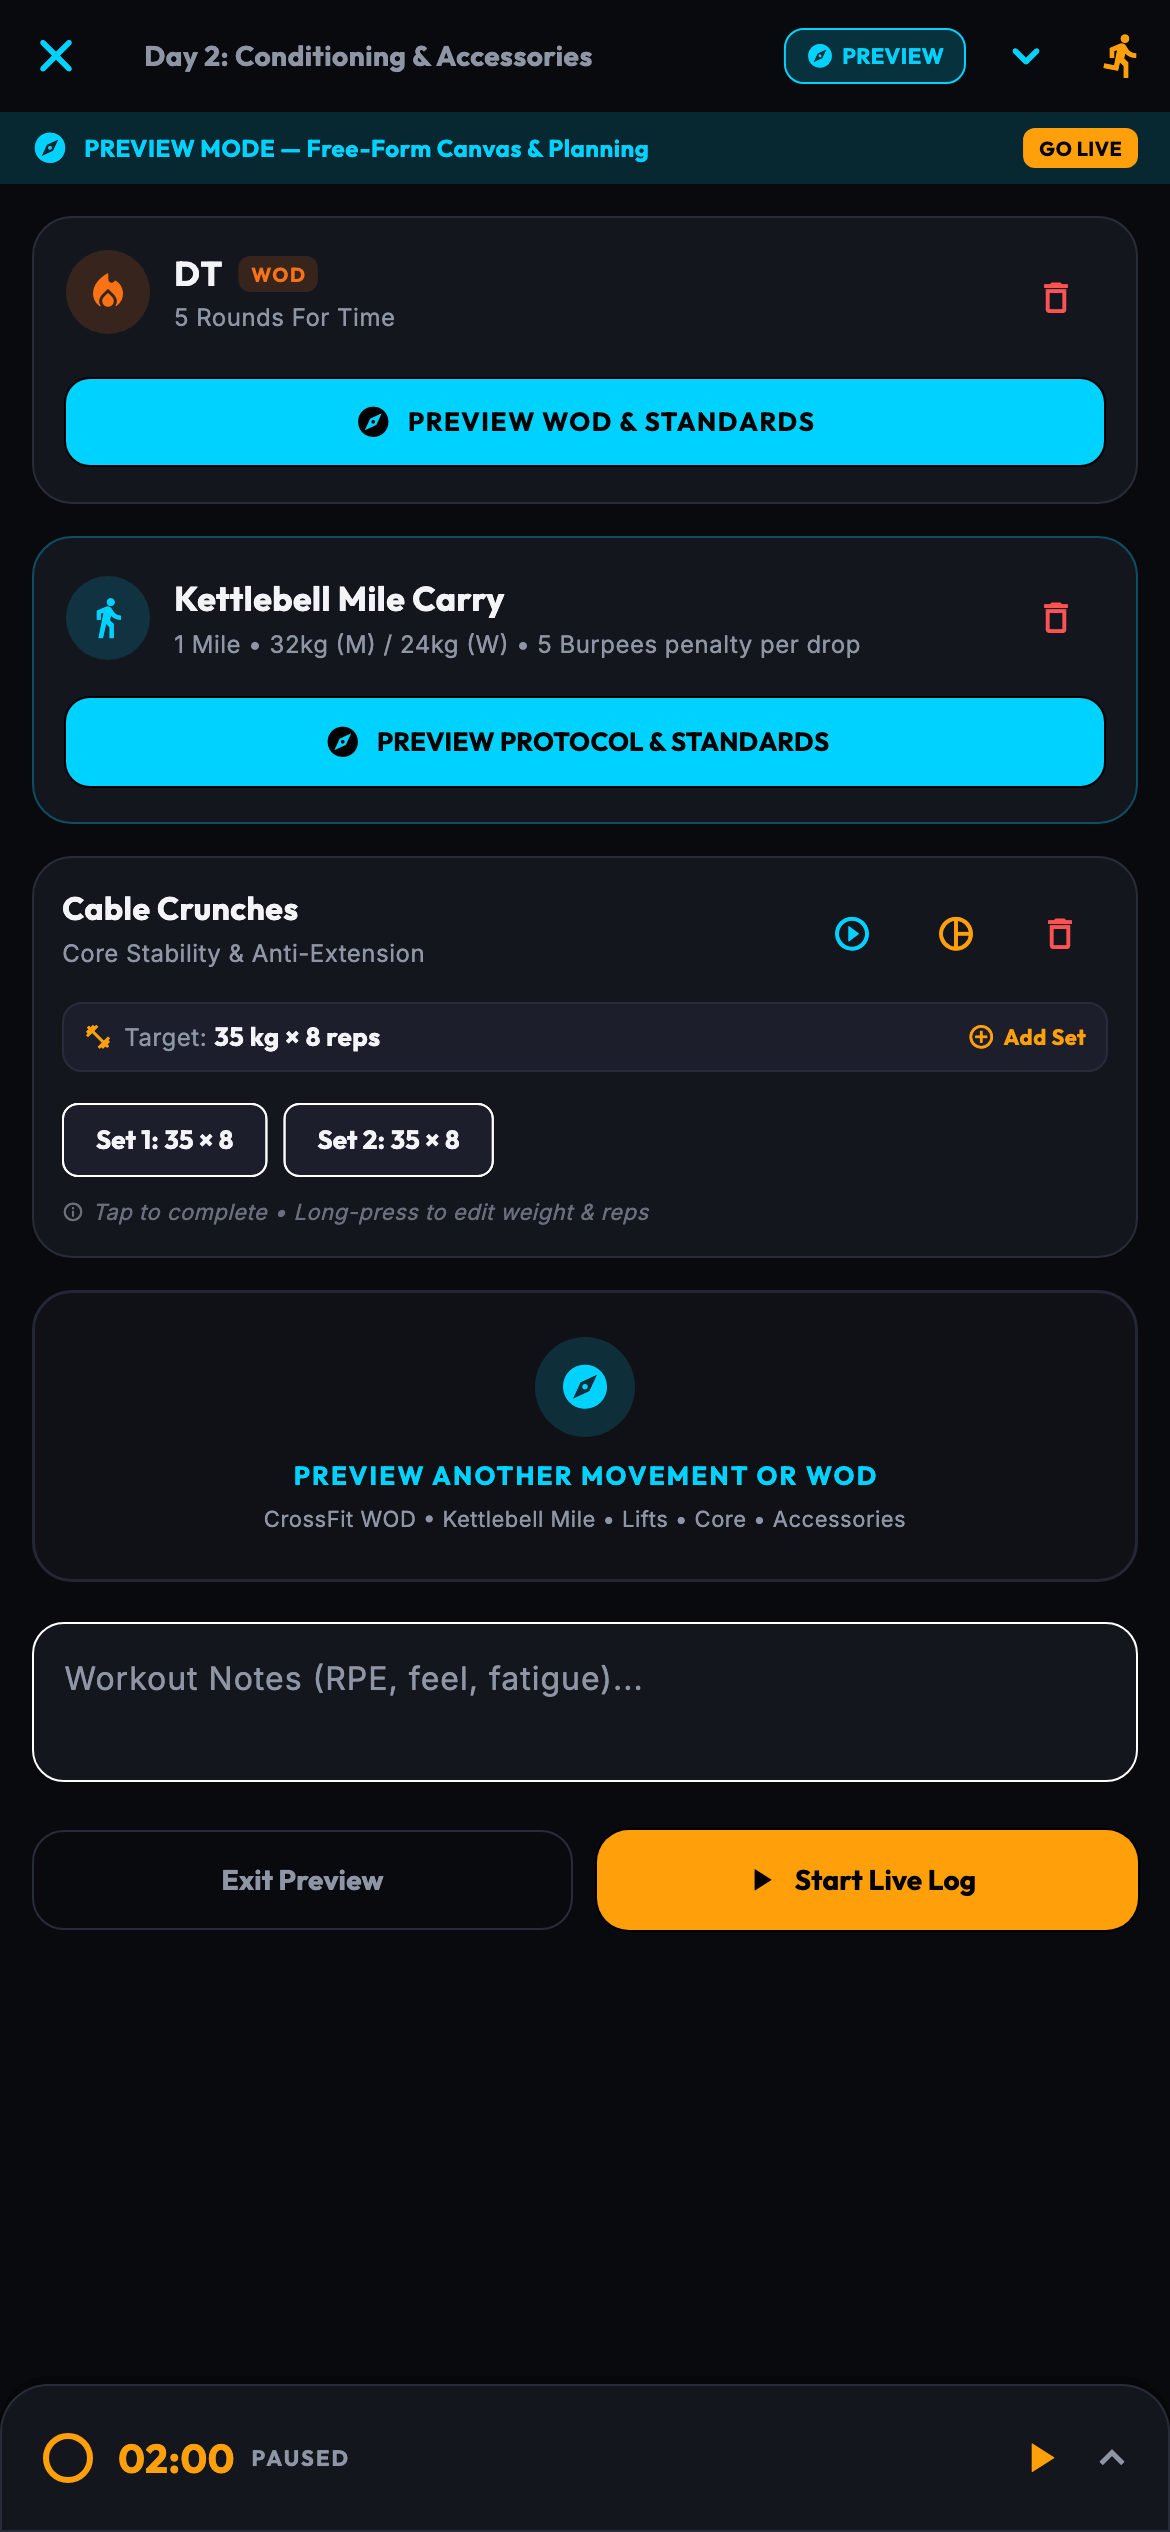
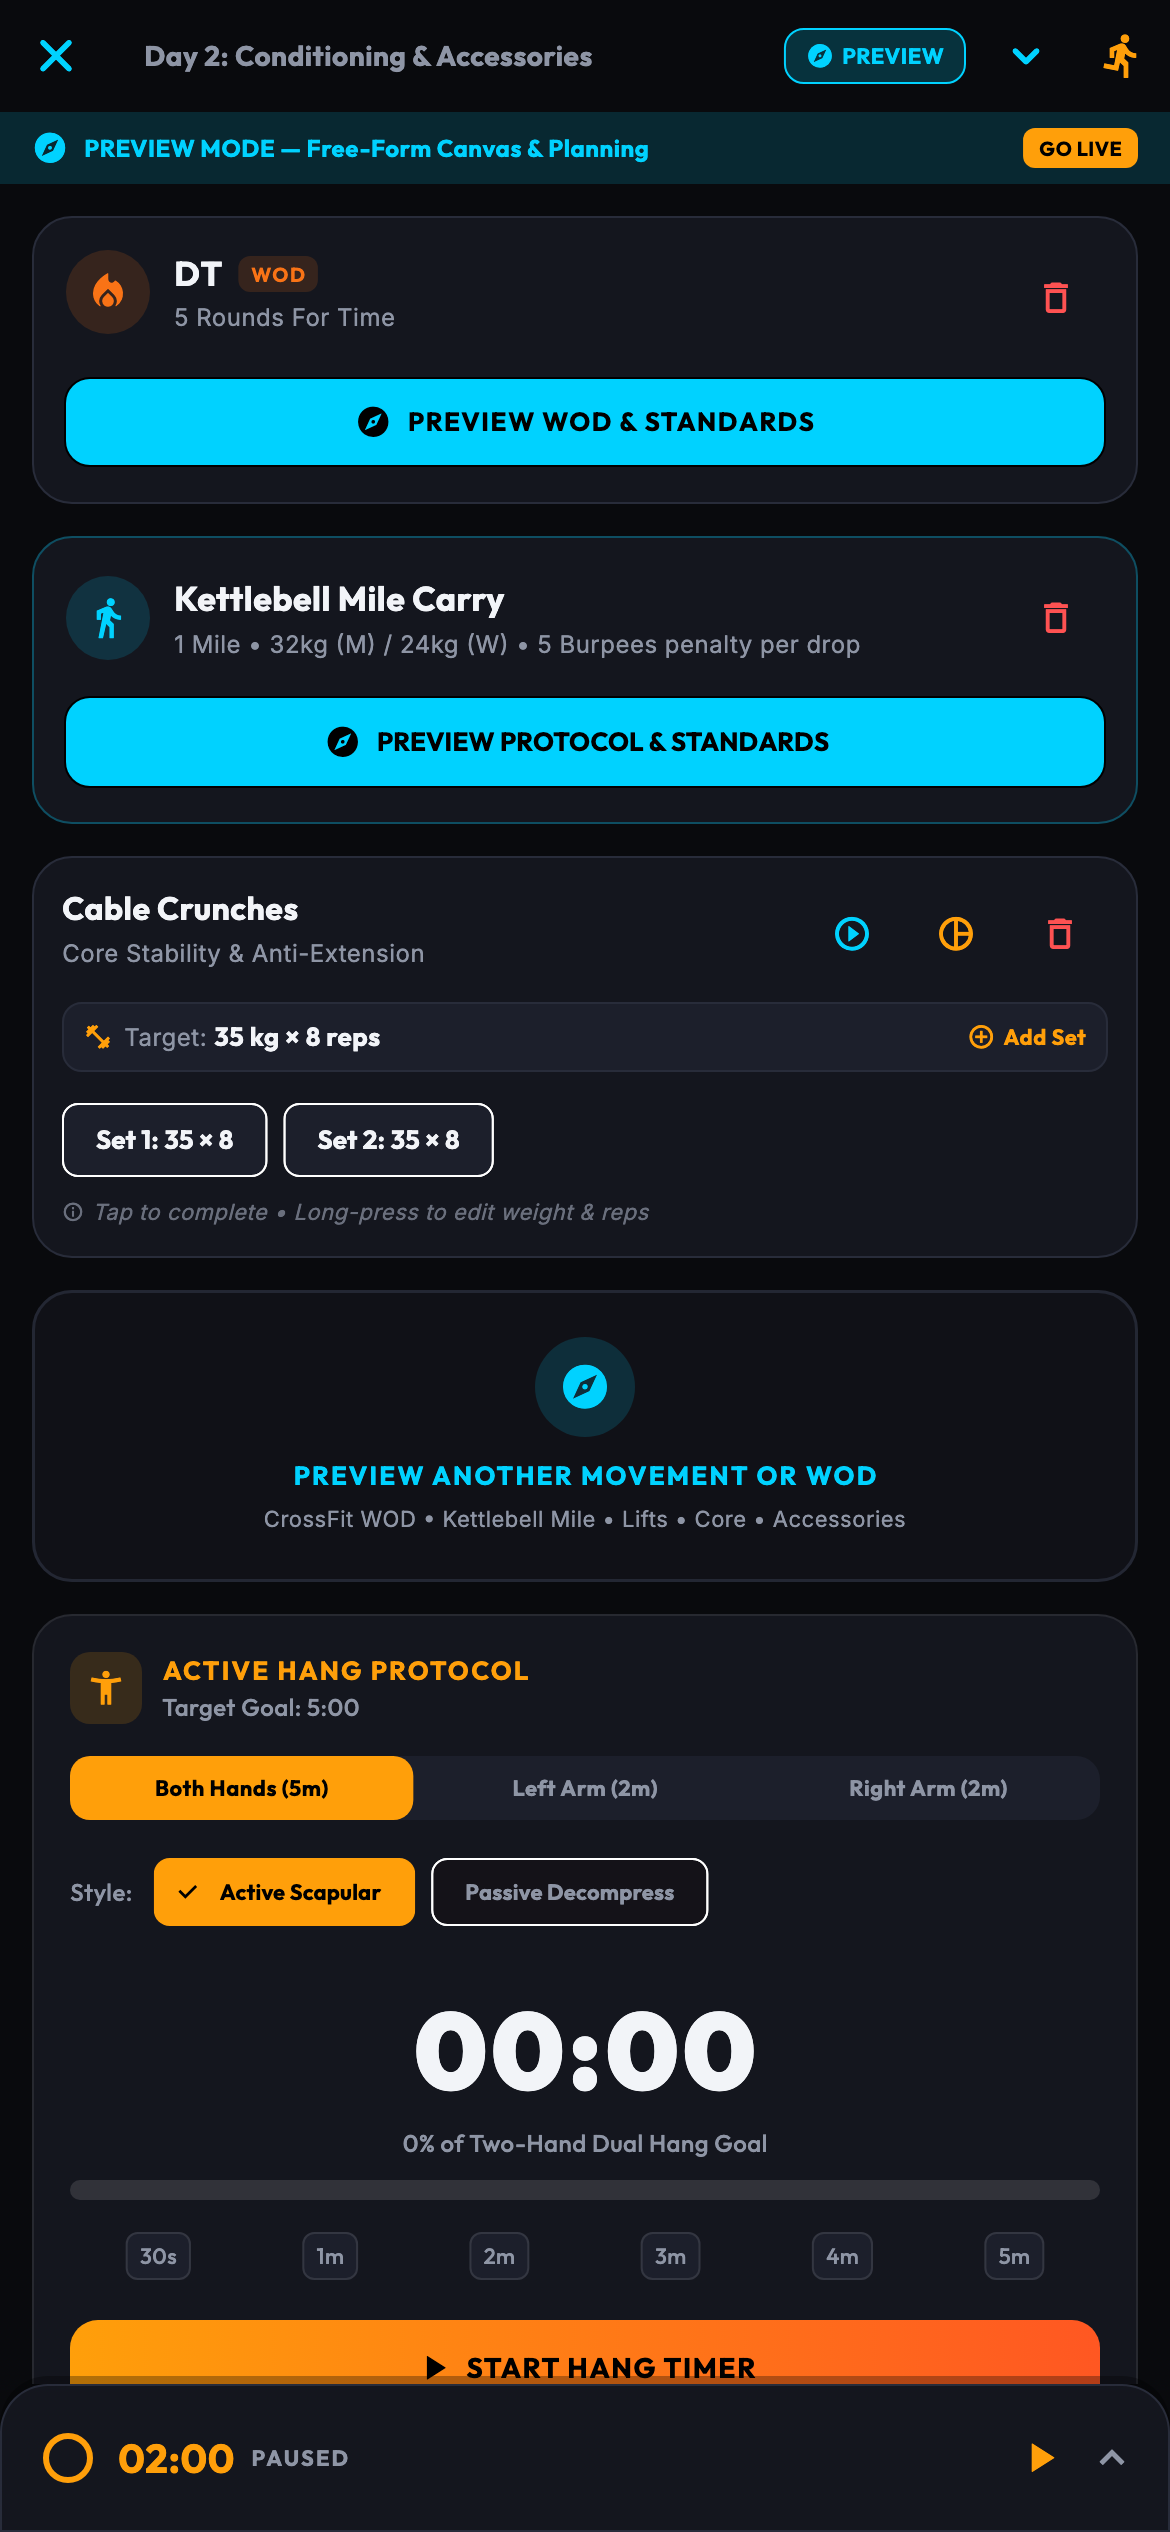
docs: update README and screenshots with Composable Goals, Grip Strength & C25K Engine

Changed region(s): [[0.0615, 0.624, 0.9846, 0.9672]]

diff --git a/test/screenshot_capture_test.dart b/test/screenshot_capture_test.dart
@@ -16,9 +16,13 @@ import 'package:oly/models/nutrition_entry.dart';
 import 'package:oly/models/program_model.dart';
 import 'package:oly/models/wod_definition.dart';
 import 'package:oly/models/workout_session.dart';
+import 'package:oly/providers/active_session_provider.dart';
 import 'package:oly/providers/body_comp_provider.dart';
 import 'package:oly/providers/breathing_provider.dart';
+import 'package:oly/providers/c25k_provider.dart';
 import 'package:oly/providers/fasting_provider.dart';
+import 'package:oly/providers/goal_provider.dart';
+import 'package:oly/providers/grip_hang_provider.dart';
 import 'package:oly/providers/injury_provider.dart';
 import 'package:oly/providers/lift_provider.dart';
 import 'package:oly/providers/nutrition_provider.dart';
@@ -35,9 +39,13 @@ import 'package:oly/views/breathing/breathing_analytics_tab.dart';
 import 'package:oly/views/breathing/wim_hof_session_screen.dart';
 import 'package:oly/views/breathing/wim_hof_setup_sheet.dart';
 import 'package:oly/views/breathing/wim_hof_summary_screen.dart';
+import 'package:oly/views/c25k/c25k_active_run_screen.dart';
+import 'package:oly/views/c25k/c25k_program_detail_screen.dart';
 import 'package:oly/views/dashboard_screen.dart';
 import 'package:oly/views/death_by_burpees_screen.dart';
 import 'package:oly/views/diagnostics/crash_report_screen.dart';
+import 'package:oly/views/grip/dynamometer_entry_sheet.dart';
+import 'package:oly/views/grip/grip_hang_detail_screen.dart';
 import 'package:oly/views/injury_tracker_screen.dart';
 import 'package:oly/views/lifts_screen.dart';
 import 'package:oly/views/max_test_screen.dart';
@@ -143,6 +151,10 @@ void main() {
   late InjuryProvider injuryProvider;
   late BreathingProvider breathingProvider;
   late FastingProvider fastingProvider;
+  late GoalProvider goalProvider;
+  late GripHangProvider gripHangProvider;
+  late C25kProvider c25kProvider;
+  late ActiveSessionProvider activeSessionProvider;
 
   setUpAll(() async {
     GoogleFonts.config.allowRuntimeFetching = false;
@@ -215,6 +227,10 @@ void main() {
     injuryProvider = InjuryProvider(storage);
     breathingProvider = BreathingProvider(storage);
     fastingProvider = FastingProvider(storage);
+    activeSessionProvider = ActiveSessionProvider();
+    goalProvider = GoalProvider(storage);
+    gripHangProvider = GripHangProvider(storage);
+    c25kProvider = C25kProvider(storage);
   });
 
   GlobalKey boundaryKey = GlobalKey();
@@ -232,6 +248,10 @@ void main() {
         ChangeNotifierProvider.value(value: injuryProvider),
         ChangeNotifierProvider.value(value: breathingProvider),
         ChangeNotifierProvider.value(value: fastingProvider),
+        ChangeNotifierProvider.value(value: activeSessionProvider),
+        ChangeNotifierProvider.value(value: goalProvider),
+        ChangeNotifierProvider.value(value: gripHangProvider),
+        ChangeNotifierProvider.value(value: c25kProvider),
       ],
       child: MaterialApp(
         debugShowCheckedModeBanner: false,
@@ -1366,6 +1386,76 @@ void main() {
         );
         await captureScreen(tester, '40_fasting_refeed_guide_sheet');
         expect(find.text('STRUCTURED REFEEDING PROTOCOL'), findsOneWidget);
+      },
+    );
+
+    testWidgets(
+      '41 Renders Grip Strength & Active Hang Dashboard Screen',
+      (tester) async {
+        tester.view.physicalSize = const Size(1170, 2532);
+        tester.view.devicePixelRatio = 2.0;
+        addTearDown(() => tester.view.resetPhysicalSize());
+
+        await tester.pumpWidget(
+          buildTestScreen(
+            const GripHangDetailScreen(),
+          ),
+        );
+        await captureScreen(tester, '41_grip_hang_detail_screen');
+        expect(find.text('Grip & Active Hang'), findsOneWidget);
+      },
+    );
+
+    testWidgets(
+      '42 Renders Home Handheld Dynamometer Entry Sheet',
+      (tester) async {
+        tester.view.physicalSize = const Size(1170, 2532);
+        tester.view.devicePixelRatio = 2.0;
+        addTearDown(() => tester.view.resetPhysicalSize());
+
+        await tester.pumpWidget(
+          buildTestScreen(
+            const Scaffold(
+              body: DynamometerEntrySheet(),
+            ),
+          ),
+        );
+        await captureScreen(tester, '42_dynamometer_entry_sheet');
+        expect(find.text('Home Dynamometer Test'), findsOneWidget);
+      },
+    );
+
+    testWidgets(
+      '43 Renders Couch to 5K 9-Week Curriculum Screen',
+      (tester) async {
+        tester.view.physicalSize = const Size(1170, 2532);
+        tester.view.devicePixelRatio = 2.0;
+        addTearDown(() => tester.view.resetPhysicalSize());
+
+        await tester.pumpWidget(
+          buildTestScreen(
+            const C25kProgramDetailScreen(),
+          ),
+        );
+        await captureScreen(tester, '43_c25k_program_detail_screen');
+        expect(find.text('Couch to 5K Program'), findsOneWidget);
+      },
+    );
+
+    testWidgets(
+      '44 Renders Couch to 5K Active Interval Runner Screen',
+      (tester) async {
+        tester.view.physicalSize = const Size(1170, 2532);
+        tester.view.devicePixelRatio = 2.0;
+        addTearDown(() => tester.view.resetPhysicalSize());
+
+        await tester.pumpWidget(
+          buildTestScreen(
+            const C25kActiveRunScreen(week: 1, day: 1),
+          ),
+        );
+        await captureScreen(tester, '44_c25k_active_run_screen');
+        expect(find.text('WEEK 1 DAY 1'), findsOneWidget);
       },
     );
   });

diff --git a/README.md b/README.md
@@ -16,7 +16,9 @@
   <img src="https://img.shields.io/badge/Open%20Food%20Facts-SDK%20v3-00B259?logo=openfoodfacts&logoColor=white" alt="Open Food Facts SDK" />
   <img src="https://img.shields.io/badge/Google%20ML%20Kit-OCR%20Vision-4285F4?logo=google&logoColor=white" alt="ML Kit Vision" />
   <img src="https://img.shields.io/badge/Theme-Dark%20Obsidian-121214" alt="Theme" />
-  <img src="https://img.shields.io/badge/Tests-327%20Passing-brightgreen" alt="Tests" />
+  <img src="https://img.shields.io/badge/Goals-Composable%20Tracks-FF9E1B" alt="Goals" />
+  <img src="https://img.shields.io/badge/C25K-9--Week%20Progression-00B259" alt="C25K" />
+  <img src="https://img.shields.io/badge/Tests-381%20Passing-brightgreen" alt="Tests" />
   <img src="https://img.shields.io/badge/License-Proprietary-FF9E1B" alt="License" />
 </p>
 
@@ -27,6 +29,9 @@
 **OLY** unites elite Olympic weightlifting periodization with a rigorous athlete nutrition engine, metabolic expenditure modeling, an offline-first **Anatomical Body Map & Biomechanical Injury Adaptation Engine**, a **Guided Wim Hof Breathwork & Retention Analytics Suite**, a clinical-grade **Guided Fasting & Metabolic Longevity Engine**, and a complete **2.06M+ item USDA & Restaurant SQLite database with FTS5 token search**. Designed from the ground up for serious athletes:
 
 - **🏋 Periodization & Lifts**: 4-Day and 5-Day wave loading programs (`65% → 70% → 75% → Deload → Retest`), Catalyst Athletics / Greg Everett 1RM variation ratios, dynamic in-workout exercise swapping, working weight & rep adjustments with live Epley 1RM recalculation, per-set fine-tuning, and an IWF color-coded bumper plate visualizer.
+- **🎯 Extensible Composable Goals**: Reorganized training beyond single-track workouts into an extensible goal-driven framework. Multiple goals (Olympic weightlifting, C25K running, and grip hang protocols) are automatically synthesized into cohesive daily sessions or split routines without requiring separate tracking contexts.
+- **✊ Measured Grip Strength & Active Hang Protocol**: Built around personal milestones of a **5-minute two-hand hang** and a **2-minute unilateral hang**. Features decoupled home handheld dynamometer logging (isometric peak force, bilateral asymmetry %, and rolling 14-day CNS readiness), live hang stopwatches with audio/haptic milestone chimes, and scapular vs. passive joint decompression logging.
+- **🏃 Couch to 5K (C25K) Aerobic Engine**: Complete 9-week / 27-session progressive interval running curriculum with radial countdown timers, real-time pace/interval cues (walk vs. jog), Compendium of Physical Activities Algorithm B net caloric calculation, and seamless integration into daily workouts.
 - **⏳ Guided Fasting & Metabolic Longevity Engine**: Structured progression ladder from intermittent fasting (16:8, 18:6, 20:4) to extended therapeutic fasts (24h, 36h, 48h, 72h). Specifically tailored to athlete circadian rhythm (4:45 AM wake, 6:00 AM barbell lift, 8:45 PM sleep) with contextual heavy lifting advisories, Seymour-Seyfried Glucose Ketone Index (GKI) capillary blood tracking (Keto-Mojo), automated paced hydration & strategic black coffee alert scheduling, 7-day projection planner, pantry checklist, 3-phase structured refeeding guide, and in-depth cellular biology & longevity library.
 - **🌬 Guided Wim Hof Breathwork & Retention Tracking**: Configurable 1–10 round breathing protocol, 20/30/40 breath counts, adjustable pacing (Relaxed, Normal, Fast), animated pulsing breathing orb, exhale breath hold stopwatch timer, 15-second recovery countdown, and dedicated **Breathwork Analytics** tracking retention progression over time via `fl_chart` LineCharts and round-by-round averages.
 - **🥗 Complete Offline 2.06M+ USDA & Restaurant Database**: Embedded SQLite database (`usda_foods.db`) powered by FTS5 full-text indexing. Contains **Foundation Foods**, **SR Legacy**, **Survey Foods (FNDDS)**, **1.98M+ Branded products** with offline UPC barcode lookup, and curated menus across 26 major restaurant chains (McDonald's, Wingstop, Wendy's, Chick-fil-A, Chipotle, Starbucks, In-N-Out, Panda Express, Subway, Popeyes, Raising Cane's, Five Guys, Shake Shack, etc.).
@@ -41,6 +46,24 @@
 ---
 
 ## 📱 Visual Feature Tour
+
+### 🎯 Composable Goals & Measured Grip Strength
+
+| Grip & Active Hang Console | Home Dynamometer Entry Sheet |
+| :---: | :---: |
+| <img src="screenshots/41_grip_hang_detail_screen.png" width="360" alt="Grip & Active Hang Screen" /> | <img src="screenshots/42_dynamometer_entry_sheet.png" width="360" alt="Home Dynamometer Logger" /> |
+| *3 Milestone progress rings (5:00 Dual Hang, 2:00 Left, 2:00 Right), CNS dynamometer glance, live stopwatch, and curated hang protocols* | *Decoupled home logger for Left/Right isometric force, live bilateral asymmetry meter, dominant hand indicator, and rolling CNS readiness* |
+
+---
+
+### 🏃 Couch to 5K (C25K) Aerobic Engine
+
+| C25K 9-Week Curriculum | Live Interval Runner Engine |
+| :---: | :---: |
+| <img src="screenshots/43_c25k_program_detail_screen.png" width="360" alt="C25K Program Detail Screen" /> | <img src="screenshots/44_c25k_active_run_screen.png" width="360" alt="C25K Active Run Screen" /> |
+| *Full 9-week / 27-session progressive interval roadmap with milestone markers, session logs, and timeline preview* | *High-contrast outdoor runner UI, radial interval countdown ring, current step state pills (JOG / WALK), and live distance/calorie metrics* |
+
+---
 
 ### 🌬 Guided Wim Hof Breathwork & Retention Analytics
 
@@ -418,7 +441,30 @@ dart run tool/scrape_crossfit.dart
 
 ---
 
-## 📄 Testing Suite (320+ Passing Tests)
+---
+
+## 🎯 Composable Training Goals, Grip Strength & Couch to 5K Engine
+
+OLY reorganizes athletic development into an extensible, multi-goal architecture that combines diverse training regimens into structured daily blueprints without fragmenting the athlete's workflow:
+
+### 1. Extensible Composable Goals
+- **Goal Tracks & Schedules**: Each track (`Olympic Weightlifting`, `Grip & Active Hang`, `Couch to 5K Aerobic Engine`) defines its own weekly schedule config and milestone progression targets.
+- **Daily Composition**: Daily training sessions automatically stitch together scheduled blocks (e.g. Olympic lifting + active hang + C25K run intervals). Athletes can execute everything in one continuous session or perform split sessions across the day.
+- **Unified Mini-Dock Integration**: `ActiveSessionMiniDock` coordinates running workouts, hangs, breathwork, and runs with priority routing ensuring athletes can minimize sessions and resume them without navigation confusion.
+
+### 2. Measured Grip Strength & Active Hang Protocol
+- **Decoupled Handheld Dynamometer Logging**: Built specifically for home baseline tracking without requiring gym equipment. Athletes log Left and Right hand isometric force (kg) at any time.
+- **CNS Neuromuscular Readiness**: Calculates bilateral asymmetry percentage ($|L - R| / \max(L, R) \times 100$) and tracks rolling 14-day baseline averages to detect central nervous system fatigue before touching the barbell.
+- **Active Hang Stopwatch**: Live stopwatch supporting two-hand hangs (5:00 target milestone) and unilateral hangs (2:00 target milestone for either hand), active scapular vs passive decompression styles, milestone alerts at 30s intervals, and personal record detection.
+
+### 3. Couch to 5K (C25K) Running Engine
+- **Structured 9-Week Curriculum**: 27 progressive sessions taking athletes from gentle walk/jog intervals to 30-minute continuous 5K running.
+- **Live Interval Runner UI**: High-contrast outdoor display with radial countdown timer, interval step pills, countdown chimes, and automatic step transitions.
+- **Net Energy Expenditure**: Uses Compendium of Physical Activities Algorithm B (Net MET = Gross MET - 1.0) to accurately isolate running calories from baseline metabolic rate.
+
+---
+
+## 📄 Testing Suite (380+ Passing Tests)
 
 Run the full suite of unit, widget, domain engine, and screenshot rendering tests:
 ```bash
@@ -426,6 +472,10 @@ flutter test
 ```
 
 Test coverage includes:
+- `hang_session_minimize_expand_test.dart`: Multi-goal session minimization routing, active draft context preservation, and timer lifecycle disposal.
+- `goal_provider_test.dart`: Goal scheduling, multi-track composition (Mon/Tue/Wed/Sun), milestone synchronization, and daily block completion persistence.
+- `grip_hang_provider_test.dart`: Handheld dynamometer bilateral asymmetry %, 14-day rolling baseline, CNS fatigue readiness, and hang PR milestone detection.
+- `c25k_provider_test.dart`: Couch to 5K 27-session curriculum, interval state machine, and Compendium Algorithm B net calories.
 - `fasting_engine_test.dart`: Circadian schedule alignment (4:45 AM wake / 6:00 AM lift / 8:45 PM bed), 16:8 to 72h progression, Seymour-Seyfried GKI index math, metabolic stage transitions, and barbell lifting advisories.
 - `fasting_widgets_test.dart`: Fasting radial gauge rendering, biological breakdown card, 7-day forward projection planner, biomarker logging & history sheets, pantry checklist, and gentle refeed guide.
 - `crossfit_hero_wod_test.dart`: Hero WOD model serialization, timing format parsing (`forTime`, `amrap`, `emom`, etc.), `toWodDefinition()` bridge, and offline JSON dataset verification.
@@ -443,7 +493,7 @@ Test coverage includes:
 - `smart_portion_widget_test.dart`: Protein density index, macro split bar, custom piece chips (wings, nuggets, tenders), steppers, and live barcode camera scanner.
 - `renpho_ocr_test.dart`: 13-field OCR regex parsing from smart scale screenshots, lean mass calculations, and BMR updates.
 - `app_log_service_test.dart`: Ring-buffer logging, persistent crash storage, and `CrashReportScreen` UI controls.
-- `screenshot_capture_test.dart`: 40 multi-view layout tests verifying rendering and generating high-res PNGs for all views.
+- `screenshot_capture_test.dart`: 44 multi-view layout tests verifying rendering and generating high-res PNGs for all views (including Grip Hang, Dynamometer Sheet, C25K Program, and C25K Active Run).
 - `exercise_swap_test.dart`: Movement substitution, variation categorization, and weight recalculation.
 - `workout_weight_recalculation_test.dart`: In-workout weight adjustment, 1RM reverse formulas, steppers, and save modes.
 - `feature_audit_test.dart`: Session serialization, RPE, joint strain tags, recovery adaptation, and JSON/CSV backup.
